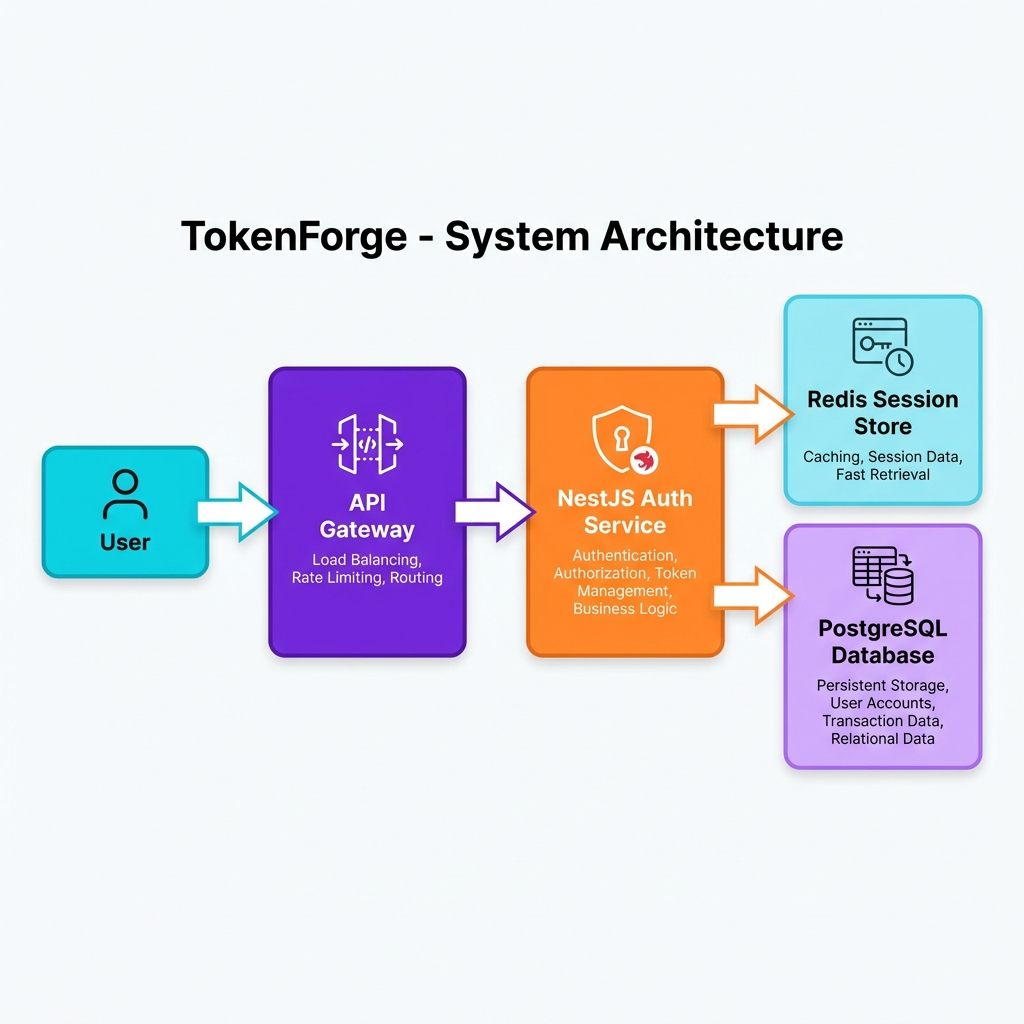
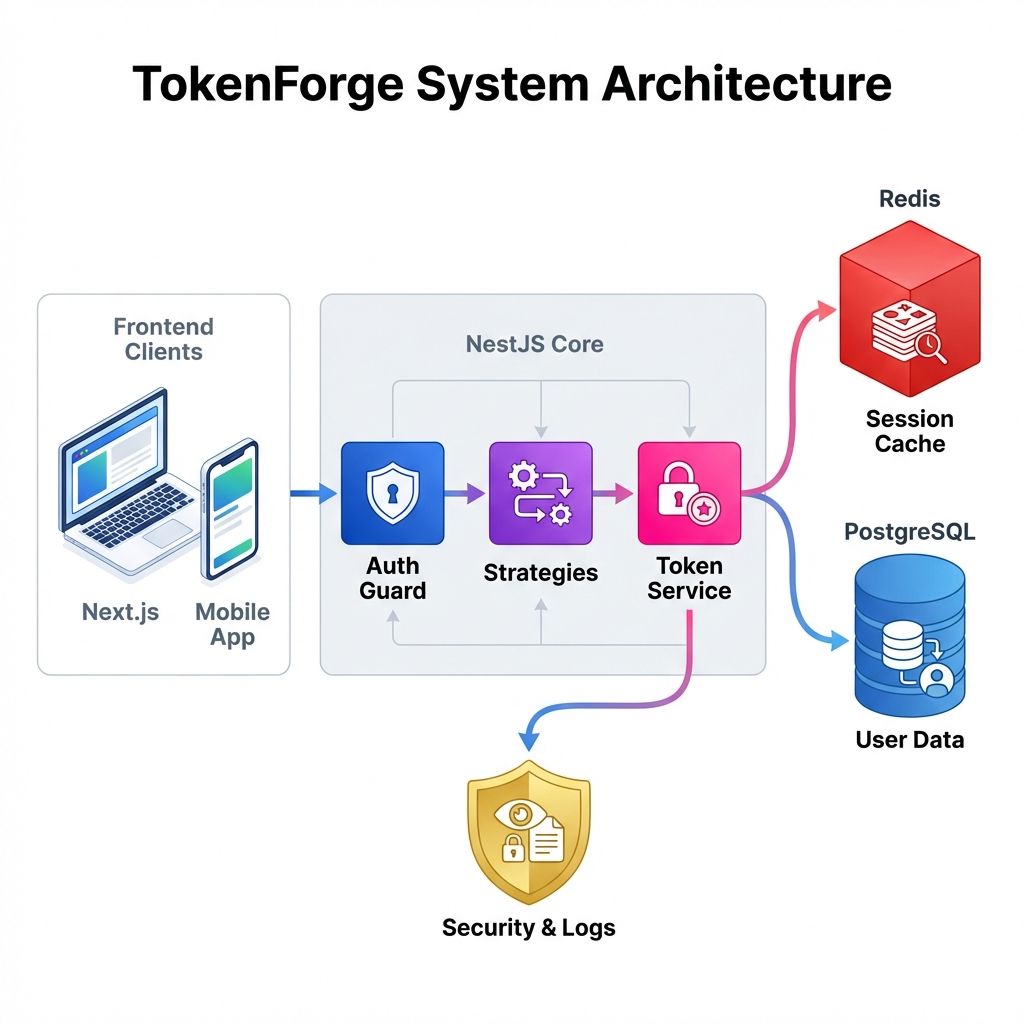
docs: update architecture diagram and remove redundancy in README

Changed region(s): [[0.0312, 0.1875, 0.9688, 0.9375], [0.125, 0.0625, 0.875, 0.125]]

diff --git a/README.md b/README.md
@@ -1,7 +1,5 @@
 # 🛡 TokenForge
 
-![TokenForge Architecture](docs/assets/architecture-diagram.png)
-
 **TokenForge** is a professional, production-ready authentication system built with **NestJS**. It provides a secure, scalable, and modular foundation for managing user identities, roles, and sessions.
 
 > "Identity is the new perimeter."
